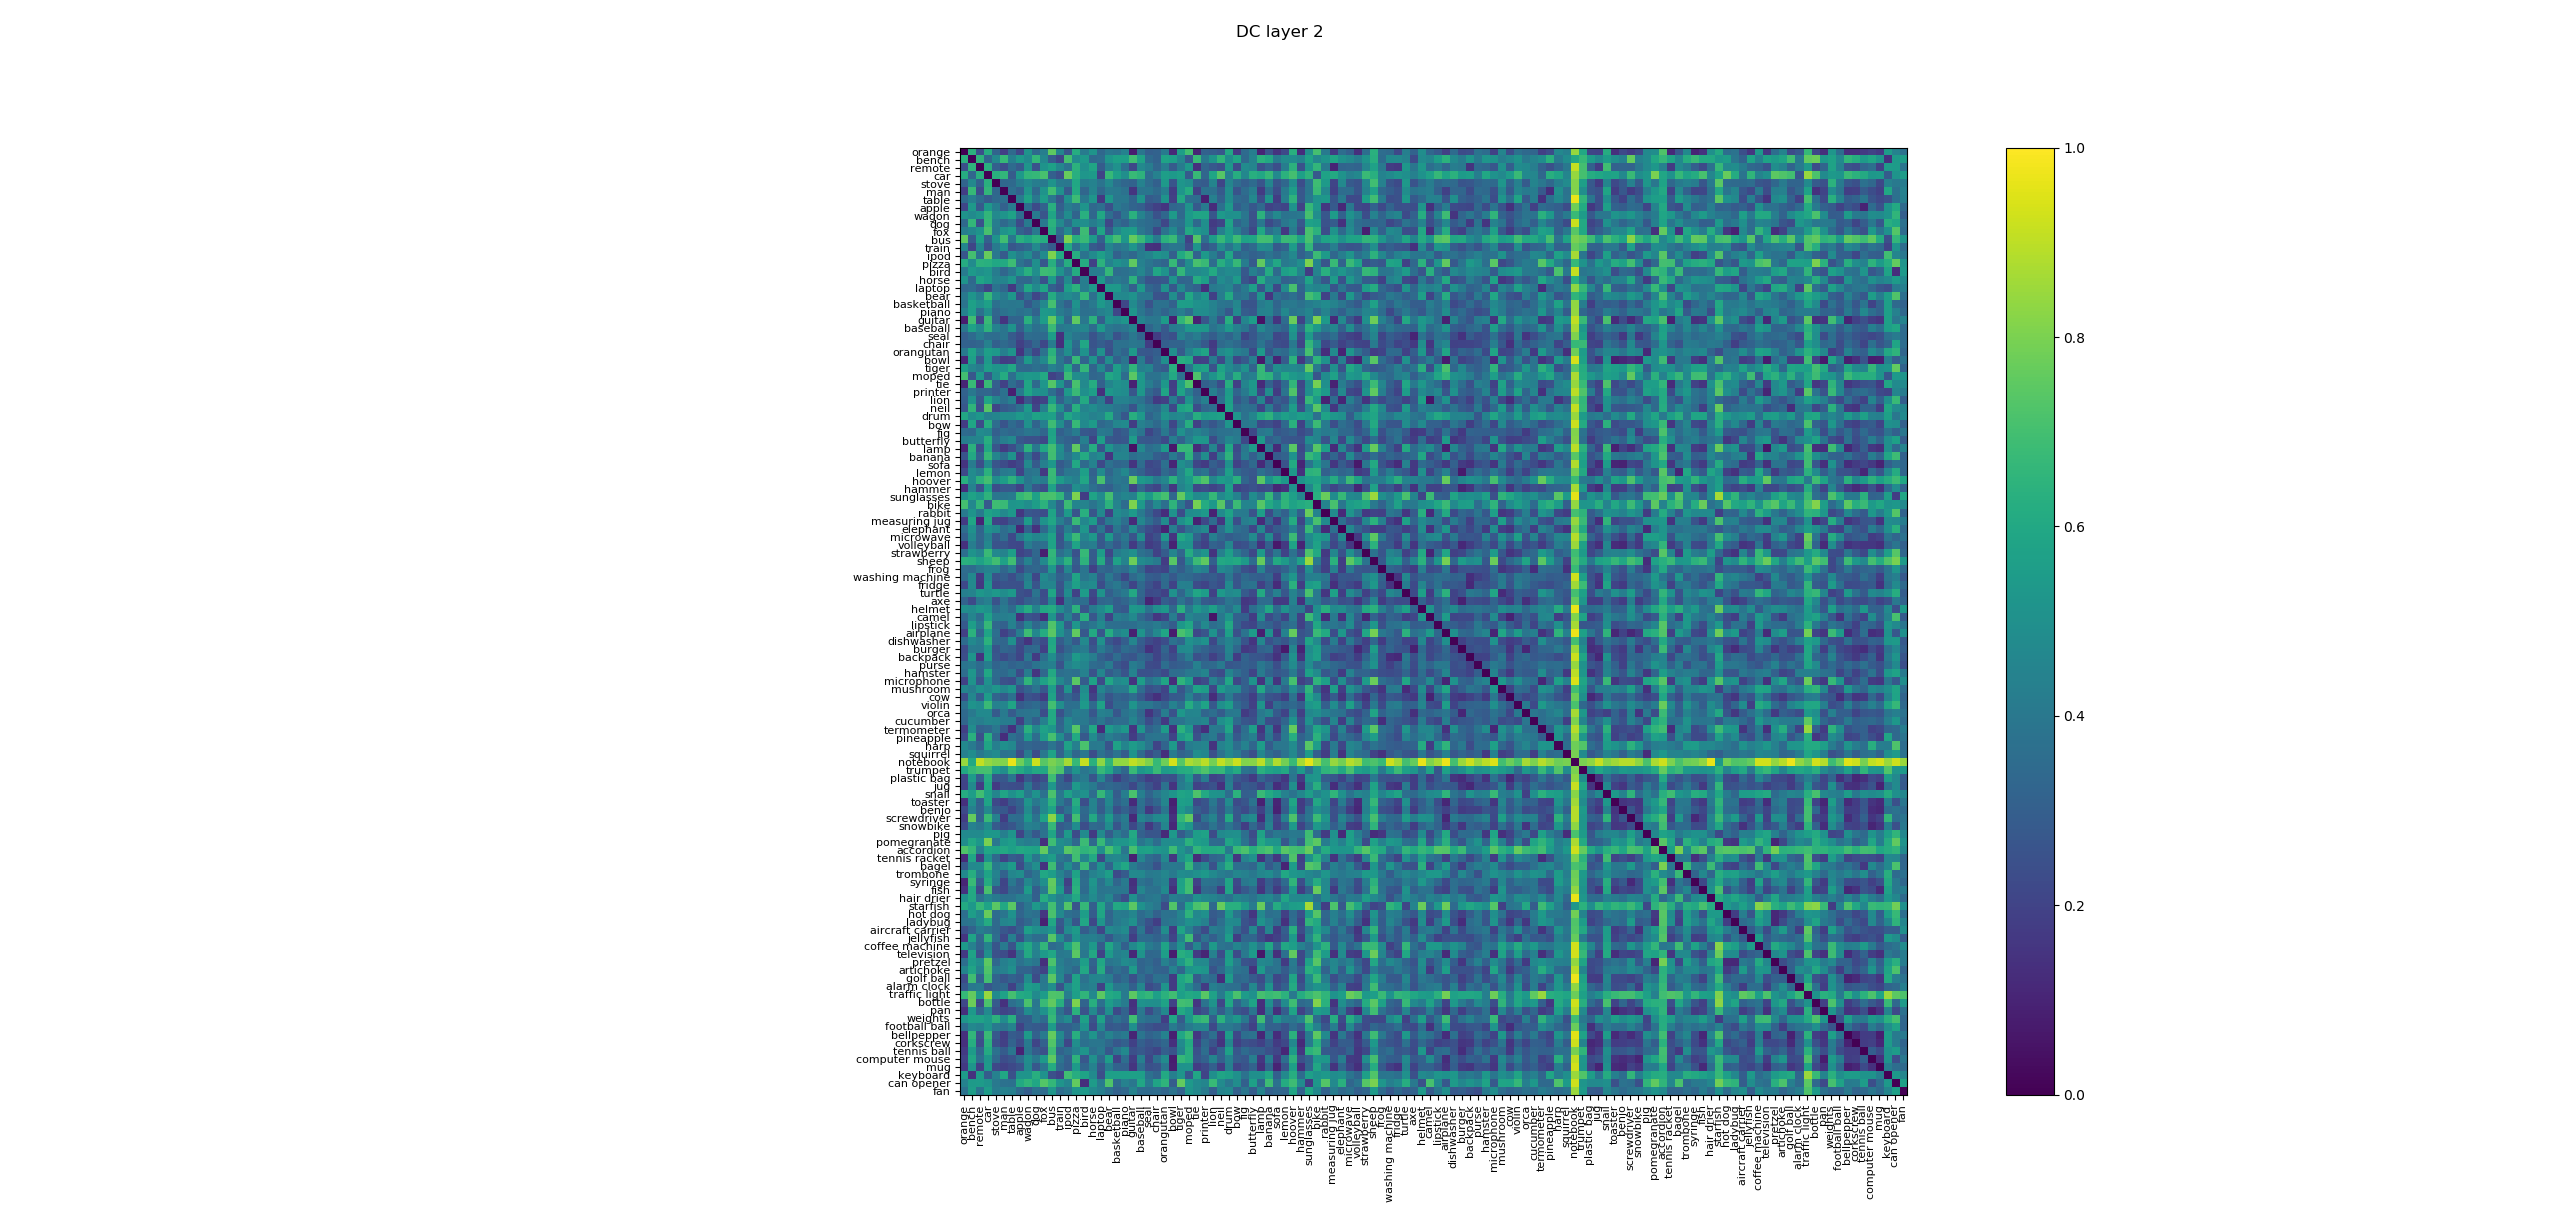
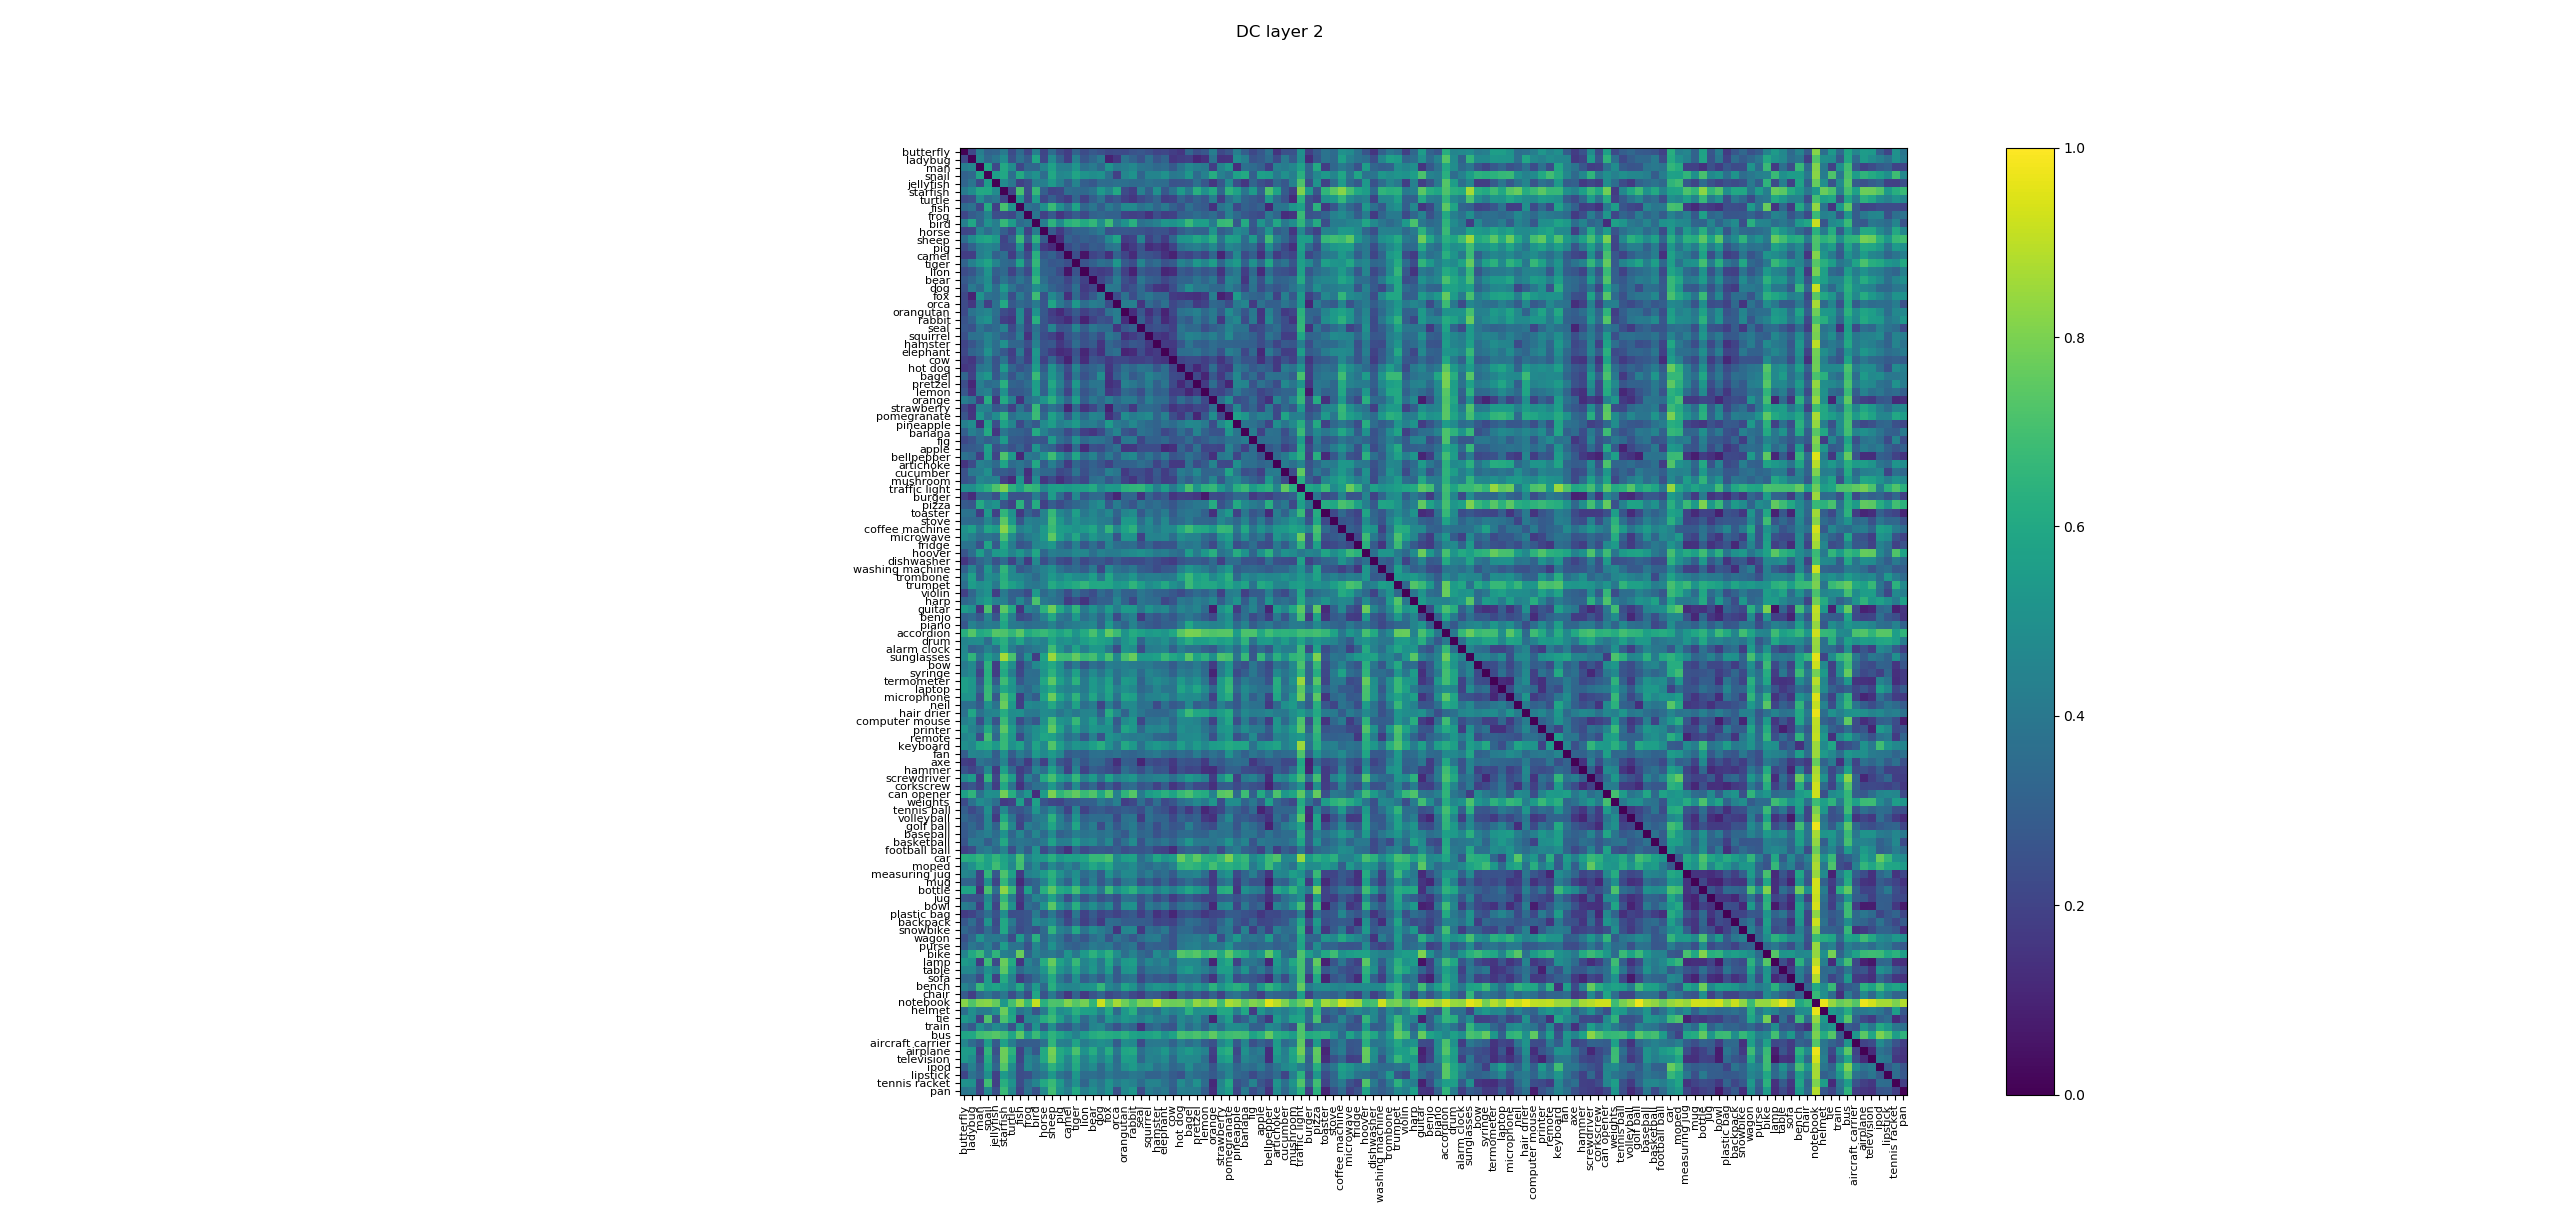
corrected mistakes to mat files import and added fmri lch ordering

Changed region(s): [[0.3438, 0.1236, 0.75, 0.9577]]

diff --git a/cichy118_evaluate_dc_fmri.py b/cichy118_evaluate_dc_fmri.py
@@ -26,15 +26,18 @@ def load_dict(path):
         dict=pickle.load(file)
     return dict
 
-
-def rdm(act_matrix):
-    rdm_matrix = distance.squareform(distance.pdist(act_matrix,metric='correlation'))
-    return rdm_matrix
-
 def reorder_od(dict1,order):
    new_od = collections.OrderedDict([(k,None) for k in order if k in dict1])
    new_od.update(dict1)
    return new_od
+   
+def loadmat(matfile):
+    try:
+        f = h5py.File(matfile)
+    except (IOError, OSError):
+        return io.loadmat(matfile)
+    else:
+        return {name: np.transpose(f.get(name)) for name in f.keys()}
 
 def lch_order(keys,names_dict,syn_dict):
     ## get LCH distance for the images from the respective synsets and order them by hierarchical clustering + get respective (comprehensible) labels 
@@ -87,16 +90,14 @@ def numeric_order(keys,ordered_names_dict):
         orderedNames.append(item[1])
     return orderedNames
 
-
-def sq(x):
-    return squareform(x, force='tovector', checks=False)
+def rdm(act_matrix):
+    rdm_matrix = distance.squareform(distance.pdist(act_matrix,metric='correlation'))
+    return rdm_matrix
 
 #defines the spearman correlation
-def spearman(model_rdm, rdms):
-    model_rdm_sq = sq(model_rdm)
-    return [stats.spearmanr(sq(rdm), model_rdm_sq)[0] for rdm in rdms]
-
-[rdm for rdm in rdms]
+def spearman(model_rdm, rdm):
+    out_values = stats.spearmanr(rdm, model_rdm)[0] 
+    return out_values
 
 #computes spearman correlation (R) and R^2, and ttest for p-value.
 def fmri_rdm(model_rdm, fmri_rdms):
@@ -105,11 +106,12 @@ def fmri_rdm(model_rdm, fmri_rdms):
     return np.mean(corr_squared), stats.ttest_1samp(corr_squared, 0)[1]
 
 def evaluate(submission, targets, target_names=['EVC_RDMs', 'IT_RDMs']):
-    out = {name: fmri_rdm(submission, targets[name]) for name in target_names}
+    out = {}
+    for name in target_names:
+        out[name] = fmri_rdm(submission, targets[name])
     out['score'] = np.mean([x[0] for x in out.values()])
     return out
 
-[targets[name] for name in target_names]
 
 def rdm_plot(rdm, vmin, vmax, labels, main, outname):
     fig=plt.figure()
@@ -132,16 +134,16 @@ def rdm_plot(rdm, vmin, vmax, labels, main, outname):
 def main(layers,act,img_names,img_synsets):
     act = load_dict(act)
     img_names = load_dict(img_names)
-    img_names_ordered = reorder_od(img_names, sorted(img_names.keys()))
+    img_names = reorder_od(img_names, sorted(img_names.keys()))
     img_synsets = load_dict(img_synsets)
-    img_synsets_ordered = reorder_od(img_synsets, sorted(img_synsets.keys()))
+    img_synsets = reorder_od(img_synsets, sorted(img_synsets.keys()))
 
-    #############   get list of ordered activation keys starting from labels_img and img_names dict (choose between lch distance or numeric ordering)
-#    orderedNames = lch_order(act.keys(),img_names,img_synsets)
-    orderedNames = numeric_order(act.keys(),img_names_ordered)
+    #############   get list of lch ordered activation keys starting from labels_img and img_names dict
+    orderedNames = lch_order(act.keys(),img_names,img_synsets)
+#    orderedNames = numeric_order(act.keys(),img_names)
     orderedKeys = []
     for name in orderedNames:
-        number = [i[0] for i in img_names_ordered.items() if i[1] == name]
+        number = [i[0] for i in img_names.items() if i[1] == name]
         key = [k for k in act.keys() if '%s.jpg' %number[0] in k]
         orderedKeys.append(key[0])
 
@@ -164,13 +166,29 @@ def main(layers,act,img_names,img_synsets):
         dc_rdm.append(rdm(curr_layer))
 
 
-    ###### load fmri rdms
-    fmri_mat = hdf5storage.loadmat('/home/CUSACKLAB/annatruzzi/cichy2016/neural_net/algonautsChallenge2019/Training_Data/118_Image_Set/target_fmri.mat')
-    EVC = np.mean(fmri_mat['EVC_RDMs'],axis = 0)
-    EVC = EVC.astype(EVC.dtype.newbyteorder('=')) 
-    IT = np.mean(fmri_mat['IT_RDMs'], axis = 0)
-    IT = IT.astype(IT.dtype.newbyteorder('='))
-    fmri_rdm_dict = {'EVC_RDMs' : EVC, 'IT_RDMs' : IT}
+    ###### load fmri rdms and re-order them by lch similarity
+    fmri_mat = loadmat('/home/CUSACKLAB/annatruzzi/cichy2016/neural_net/algonautsChallenge2019/Training_Data/118_Image_Set/target_fmri.mat')
+    EVC_numericorder = np.mean(fmri_mat['EVC_RDMs'],axis = 0)
+    EVC_tovector = squareform(EVC_numericorder, force='tovector', checks=False)
+    IT_numericorder = np.mean(fmri_mat['IT_RDMs'], axis = 0)
+    IT_tovector = squareform(IT_numericorder, force='tovector', checks=False)
+
+    EVC = []
+    IT = []
+    cmb_mri = list(combinations(img_names.values(),2))
+    cmb_mri_EVC = zip(cmb_mri, EVC_tovector)
+    cmb_mri_IT = zip(cmb_mri, IT_tovector)
+    cmb_orderedNames = list(combinations(orderedNames,2))
+    for combination in cmb_orderedNames:
+        for item_EVC in cmb_mri_EVC:
+            if (item_EVC[0][0] == combination[0] and item_EVC[0][1] == combination[1]) or (item_EVC[0][0] == combination[1] and item_EVC[0][1] == combination[0]):
+                EVC.append(item_EVC[1])
+        for item_IT in cmb_mri_IT:
+            if (item_EVC[0][0] == combination[0] and item_EVC[0][1] == combination[1]) or (item_EVC[0][0] == combination[1] and item_EVC[0][1] == combination[0]):
+                IT.append(item_IT[1])
+
+    
+    fmri_rdm_dict = {'EVC_RDMs' : squareform(np.asarray(EVC)), 'IT_RDMs' : squareform(np.asarray(IT))}
 
 
     ######### evaluate dc vs fmri
@@ -193,23 +211,16 @@ def main(layers,act,img_names,img_synsets):
         #score_percentNC = ((out['score'])/nc118_avg_R2)*100.      #avg (score) percent of noise ceiling
  
 
-    ####### DC plots with numeric order
+    ####### DC plots
     rdm_plot(dc_rdm[0], vmin = 0, vmax = 1, labels = orderedNames, main = 'DC layer 1', outname = 'rdm_dc1.png')
     rdm_plot(dc_rdm[1], vmin = 0, vmax = 1, labels = orderedNames, main = 'DC layer 2', outname = 'rdm_dc2.png')
     rdm_plot(dc_rdm[2], vmin = 0, vmax = 1, labels = orderedNames, main = 'DC layer 3', outname = 'rdm_dc3.png')
     rdm_plot(dc_rdm[3], vmin = 0, vmax = 1, labels = orderedNames, main = 'DC layer 4', outname = 'rdm_dc4.png')
     rdm_plot(dc_rdm[4], vmin = 0, vmax = 1, labels = orderedNames, main = 'DC layer 5', outname = 'rdm_dc5.png')
 
-    ####### fmri plots with numeric order
-    rdm_plot(EVC, vmin = 0, vmax = 0.8, labels = orderedNames, main = 'EVC', outname = 'rdm_EVC.png')
-    rdm_plot(IT, vmin = 0, vmax = 0.8, labels = orderedNames, main = 'IT', outname = 'rdm_IT.png')
-
-    ####### DC plots with lch order
-#    rdm_plot(dc_rdm[0], vmin = 0, vmax = 0.5, labels = orderedNames, main = 'DC layer 1', outname = 'rdm_dc1_LCHorder.png')
-#    rdm_plot(dc_rdm[1], vmin = 0, vmax = 1, labels = orderedNames, main = 'DC layer 2', outname = 'rdm_dc2_LCHorder.png')
-#    rdm_plot(dc_rdm[2], vmin = 0, vmax = 1.2, labels = orderedNames, main = 'DC layer 3', outname = 'rdm_dc3_LCHorder.png')
-#    rdm_plot(dc_rdm[3], vmin = 0, vmax = 1.2, labels = orderedNames, main = 'DC layer 4', outname = 'rdm_dc4_LCHorder.png')
-#    rdm_plot(dc_rdm[4], vmin = 0, vmax = 1.2, labels = orderedNames, main = 'DC layer 5', outname = 'rdm_dc5_LCHorder.png')
+    ####### fmri plots
+    rdm_plot(fmri_rdm_dict['EVC_RDMs'], vmin = 0, vmax = 0.8, labels = orderedNames, main = 'EVC', outname = 'rdm_EVC.png')
+    rdm_plot(fmri_rdm_dict['IT_RDMs'], vmin = 0, vmax = 0.8, labels = orderedNames, main = 'IT', outname = 'rdm_IT.png')
 
 
 if __name__ == '__main__':
